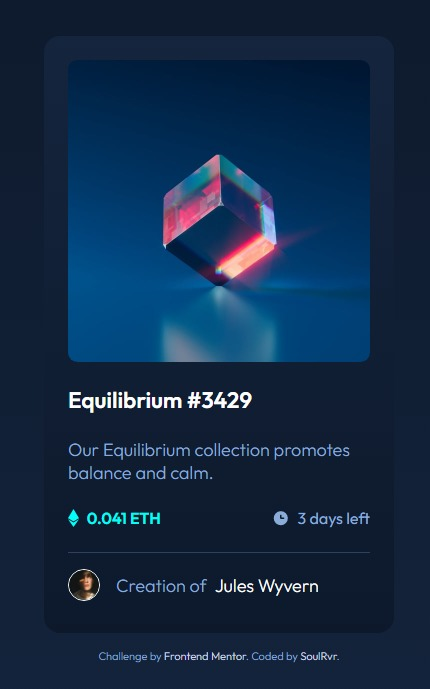
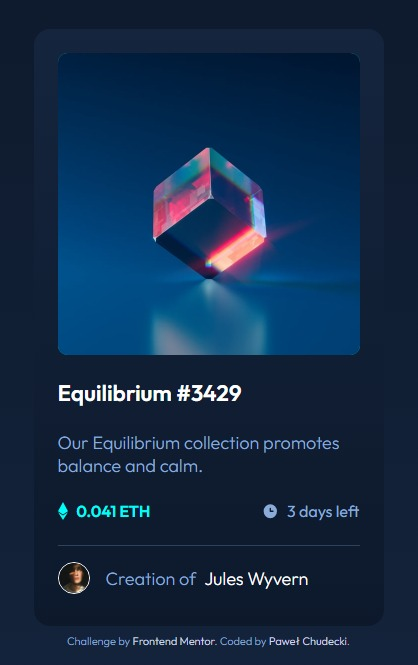
footer update

diff --git a/style.css b/style.css
@@ -49,7 +49,7 @@ h1:hover {
   gap: 1.5rem;
   max-width: 21.875rem;
   padding: min(6vw, 1.5rem);
-  margin: 1rem;
+  margin: 0.5rem 1rem;
   border-radius: 1rem;
   background-image: linear-gradient(
     to bottom,
@@ -70,6 +70,7 @@ h1:hover {
   background-color: var(--Cyan);
   border-radius: 0.6rem;
   overflow: hidden;
+  box-shadow: inset 0px 0px 10px 0px rgba(0, 0, 0, 0.75);
 }
 .iconView {
   position: absolute;
@@ -119,7 +120,7 @@ h1:hover {
   border-top: 1px solid var(--Very-dark-blue-line);
 }
 .creator img:hover {
-  scale: 150%;
+  scale: 120%;
   cursor: pointer;
 }
 .name {

diff --git a/index.html b/index.html
@@ -47,7 +47,9 @@
       <a href="https://www.frontendmentor.io?ref=challenge" target="_blank"
         >Frontend Mentor</a
       >. Coded by
-      <a href="https://www.frontendmentor.io/profile/SoulRvr29">SoulRvr</a>.
+      <a href="https://www.frontendmentor.io/profile/SoulRvr29"
+        >Paweł Chudecki</a
+      >.
     </footer>
   </body>
 </html>
